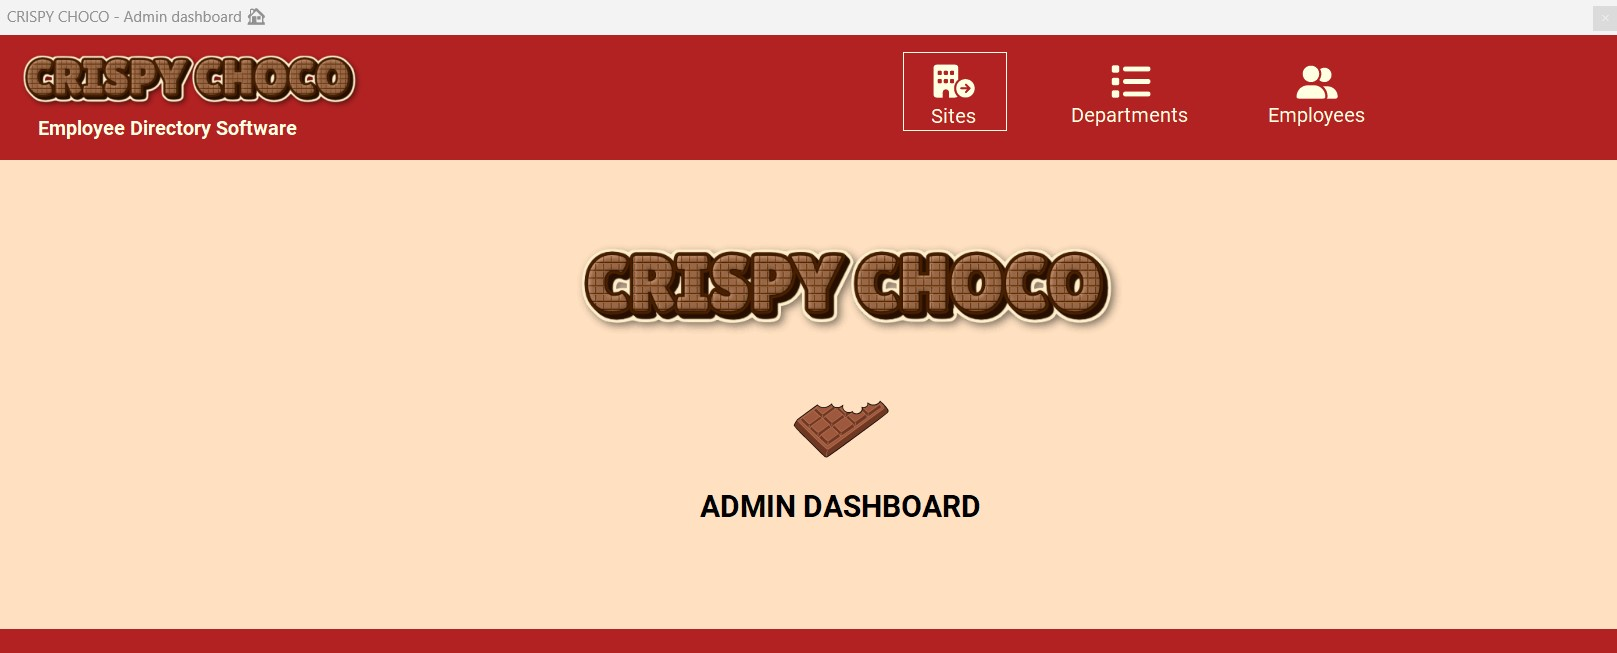
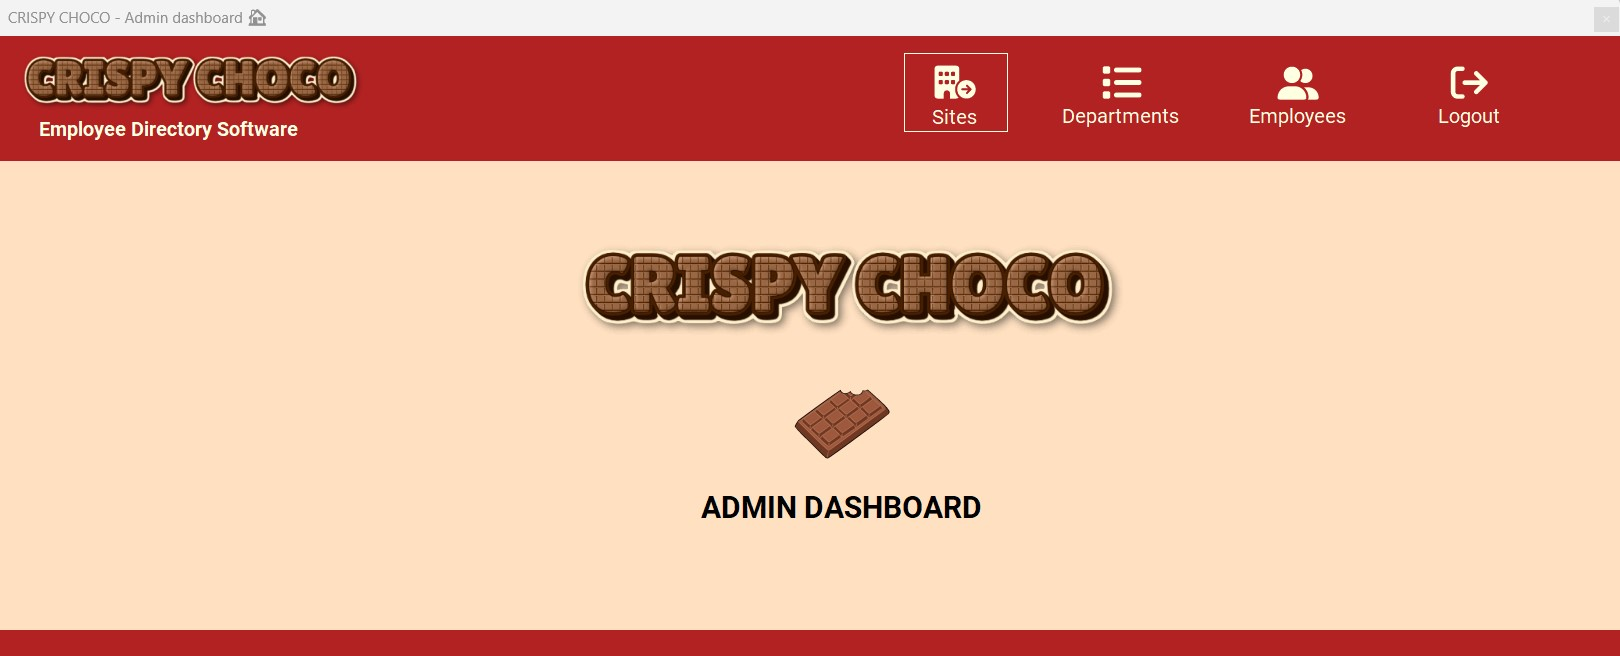
Intégration logout admin

diff --git a/CrispyChocoApp/AdministratorsMenuForm.Designer.cs b/CrispyChocoApp/AdministratorsMenuForm.Designer.cs
@@ -40,6 +40,7 @@
             this.pictureBox2 = new System.Windows.Forms.PictureBox();
             this.label2 = new System.Windows.Forms.Label();
             this.pictureBox3 = new System.Windows.Forms.PictureBox();
+            this.iconLogout = new FontAwesome.Sharp.IconButton();
             this.panel1.SuspendLayout();
             ((System.ComponentModel.ISupportInitialize)(this.pictureBox1)).BeginInit();
             this.mainAdminPanel.SuspendLayout();
@@ -50,6 +51,7 @@
             // panel1
             // 
             this.panel1.BackColor = System.Drawing.Color.Firebrick;
+            this.panel1.Controls.Add(this.iconLogout);
             this.panel1.Controls.Add(this.iconEmployees);
             this.panel1.Controls.Add(this.iconDepartments);
             this.panel1.Controls.Add(this.iconSites);
@@ -74,7 +76,7 @@
             this.iconEmployees.IconFont = FontAwesome.Sharp.IconFont.Auto;
             this.iconEmployees.IconSize = 55;
             this.iconEmployees.ImageAlign = System.Drawing.ContentAlignment.TopCenter;
-            this.iconEmployees.Location = new System.Drawing.Point(1258, 17);
+            this.iconEmployees.Location = new System.Drawing.Point(1238, 17);
             this.iconEmployees.Name = "iconEmployees";
             this.iconEmployees.Size = new System.Drawing.Size(126, 79);
             this.iconEmployees.TabIndex = 5;
@@ -96,7 +98,7 @@
             this.iconDepartments.IconFont = FontAwesome.Sharp.IconFont.Auto;
             this.iconDepartments.IconSize = 55;
             this.iconDepartments.ImageAlign = System.Drawing.ContentAlignment.TopCenter;
-            this.iconDepartments.Location = new System.Drawing.Point(1065, 17);
+            this.iconDepartments.Location = new System.Drawing.Point(1055, 17);
             this.iconDepartments.Name = "iconDepartments";
             this.iconDepartments.Size = new System.Drawing.Size(138, 79);
             this.iconDepartments.TabIndex = 4;
@@ -198,6 +200,28 @@
             this.pictureBox3.TabIndex = 4;
             this.pictureBox3.TabStop = false;
             // 
+            // iconLogout
+            // 
+            this.iconLogout.BackColor = System.Drawing.Color.Firebrick;
+            this.iconLogout.Cursor = System.Windows.Forms.Cursors.Hand;
+            this.iconLogout.FlatAppearance.BorderSize = 0;
+            this.iconLogout.FlatStyle = System.Windows.Forms.FlatStyle.Flat;
+            this.iconLogout.Font = new System.Drawing.Font("Roboto", 12F, System.Drawing.FontStyle.Regular, System.Drawing.GraphicsUnit.Point);
+            this.iconLogout.ForeColor = System.Drawing.SystemColors.Info;
+            this.iconLogout.IconChar = FontAwesome.Sharp.IconChar.ArrowRightFromBracket;
+            this.iconLogout.IconColor = System.Drawing.SystemColors.Info;
+            this.iconLogout.IconFont = FontAwesome.Sharp.IconFont.Auto;
+            this.iconLogout.IconSize = 55;
+            this.iconLogout.ImageAlign = System.Drawing.ContentAlignment.TopCenter;
+            this.iconLogout.Location = new System.Drawing.Point(1409, 17);
+            this.iconLogout.Name = "iconLogout";
+            this.iconLogout.Size = new System.Drawing.Size(126, 79);
+            this.iconLogout.TabIndex = 6;
+            this.iconLogout.Text = "Logout";
+            this.iconLogout.TextAlign = System.Drawing.ContentAlignment.BottomCenter;
+            this.iconLogout.UseVisualStyleBackColor = false;
+            this.iconLogout.Click += new System.EventHandler(this.iconLogout_Click);
+            // 
             // AdministratorsMenuForm
             // 
             this.AutoScaleDimensions = new System.Drawing.SizeF(8F, 18F);
@@ -237,5 +261,6 @@
         private PictureBox pictureBox2;
         private Label label2;
         private PictureBox pictureBox3;
+        private FontAwesome.Sharp.IconButton iconLogout;
     }
 }

diff --git a/CrispyChocoApp/Program.cs b/CrispyChocoApp/Program.cs
@@ -11,7 +11,7 @@ namespace CrispyChocoApp
             // To customize application configuration such as set high DPI settings or default font,
             // see https://aka.ms/applicationconfiguration.
             ApplicationConfiguration.Initialize();
-            Application.Run(new WelcomeForm());
+            Application.Run(new AdministratorsMenuForm());
         }
     }
 }

diff --git a/CrispyChocoApp/AdministratorsMenuForm.cs b/CrispyChocoApp/AdministratorsMenuForm.cs
@@ -40,5 +40,13 @@ namespace CrispyChocoApp
         {
             OpenChildForm(new EmployeeForm());
         }
+
+        private void iconLogout_Click(object sender, EventArgs e)
+        {
+            HomeForm homeForm = new();
+            Hide();
+            homeForm.ShowDialog();
+            Close();
+        }
     }
 }
